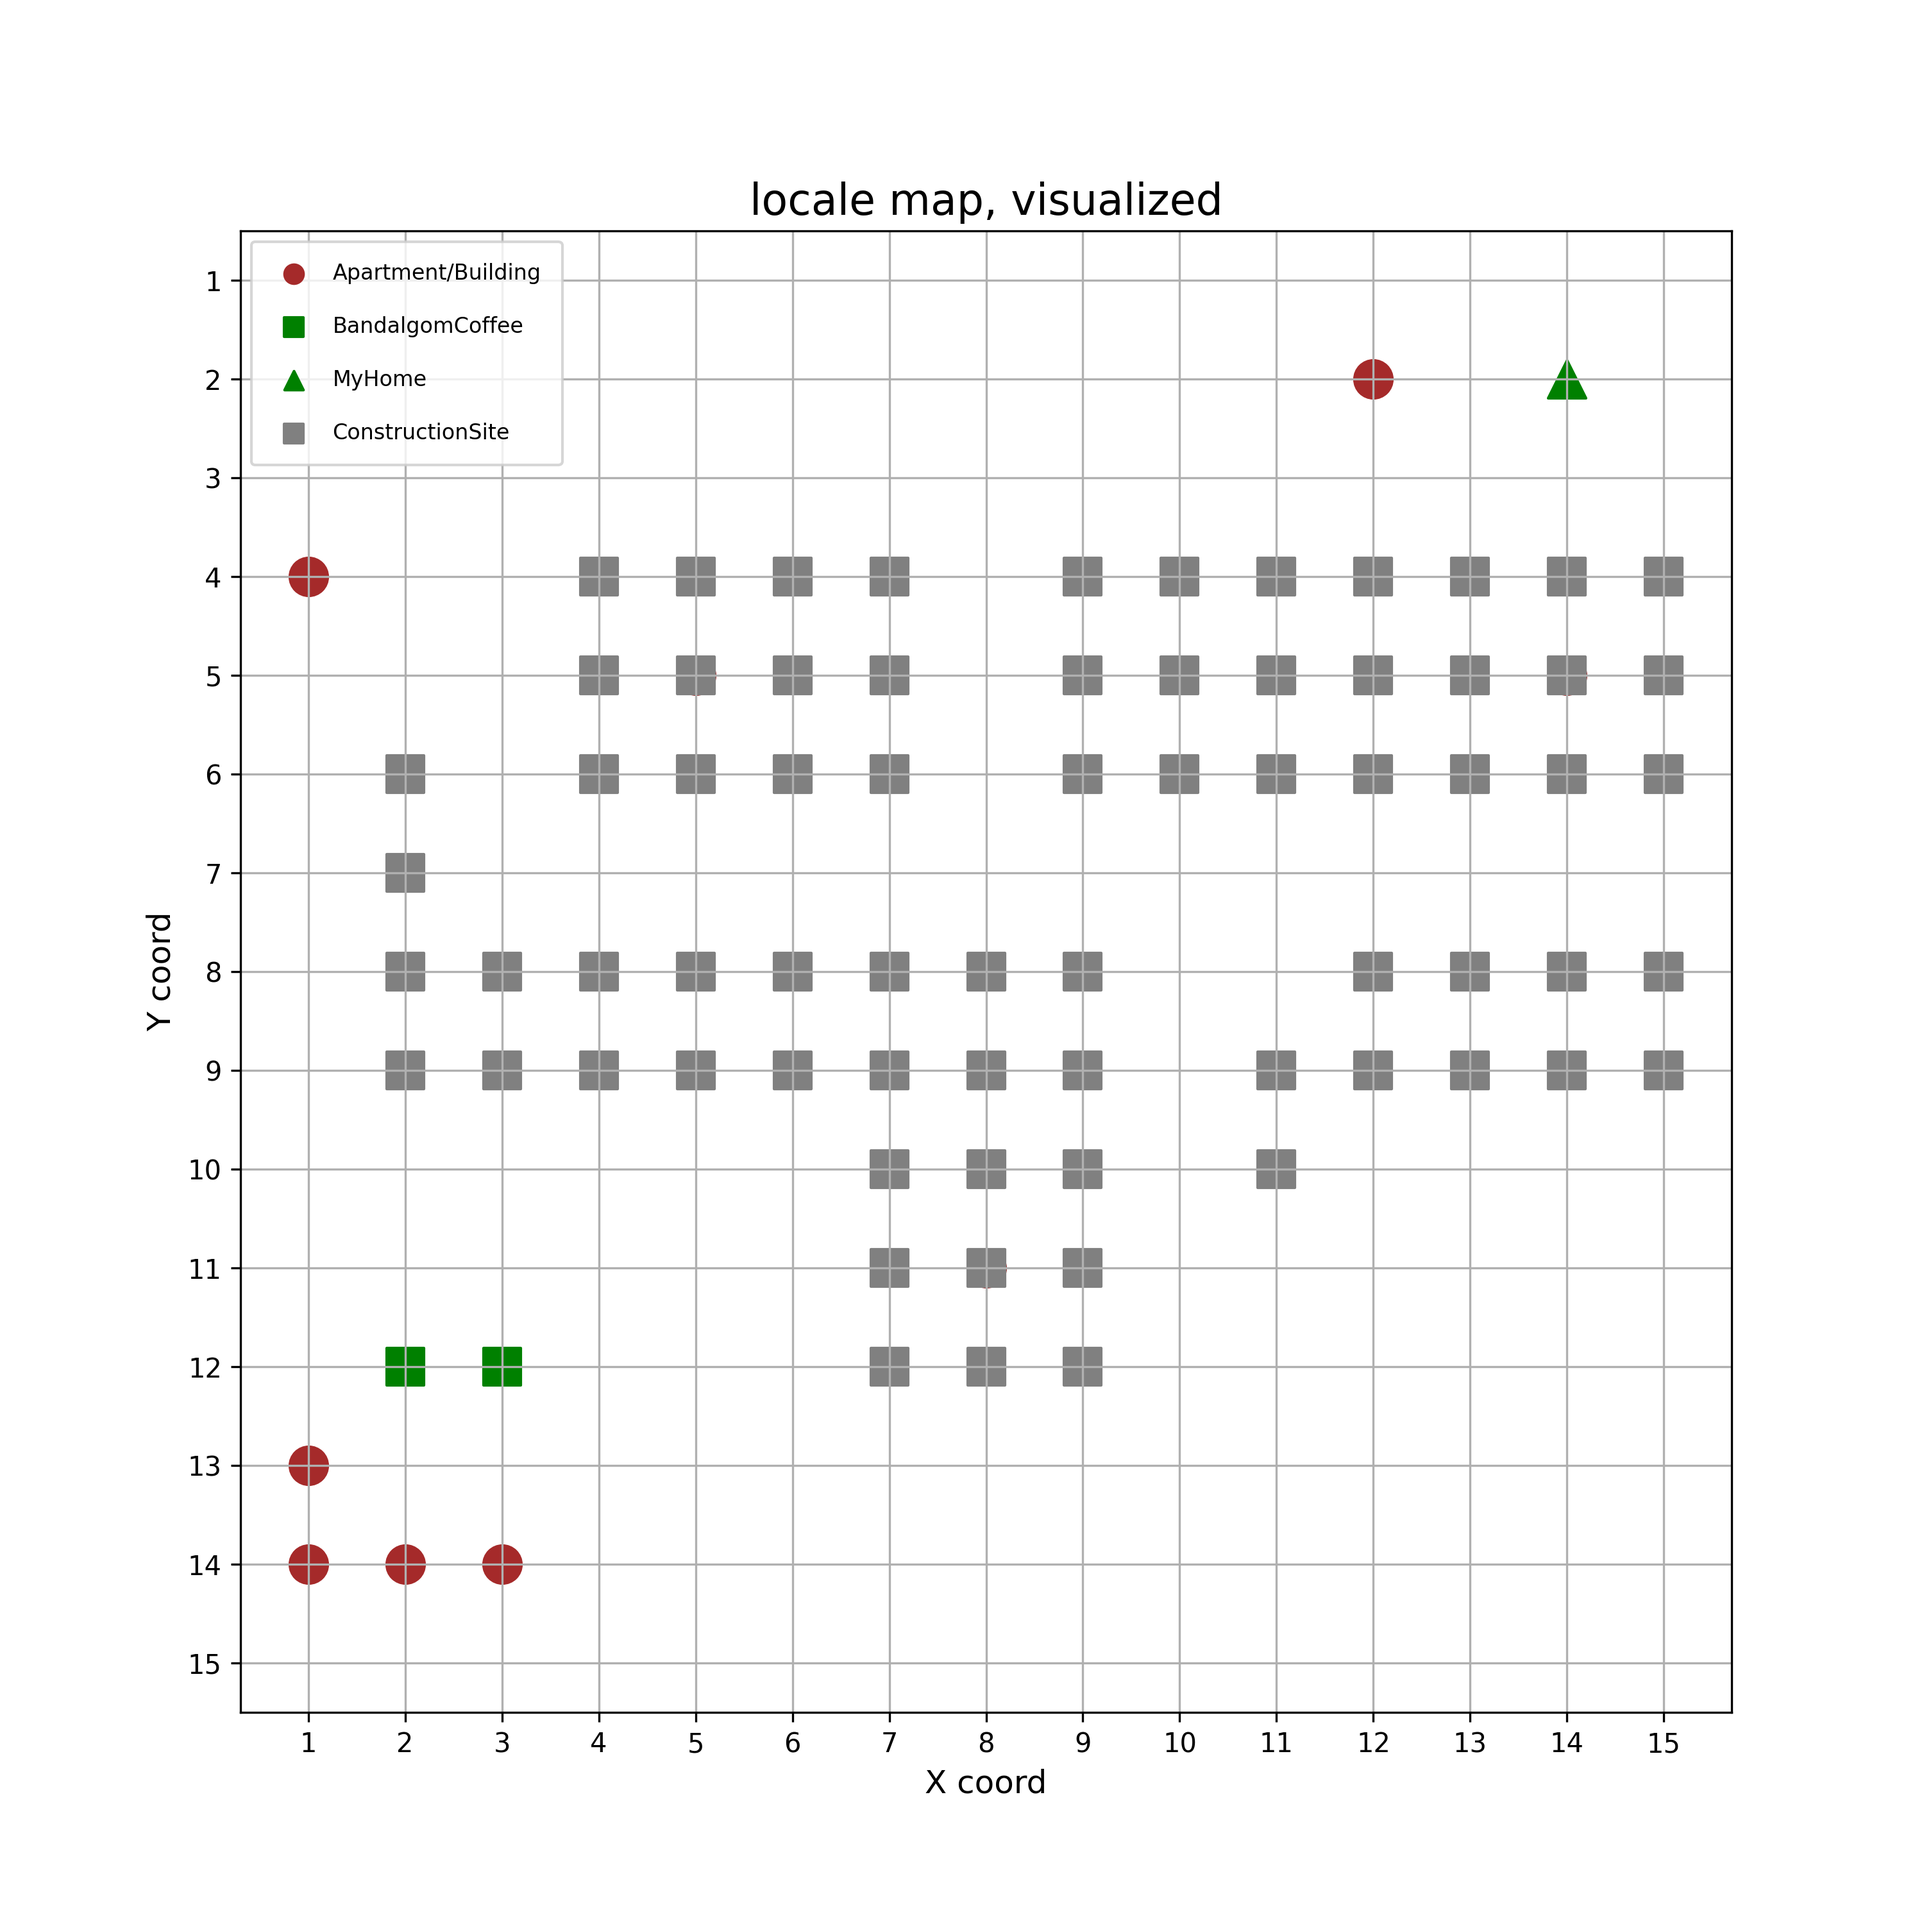
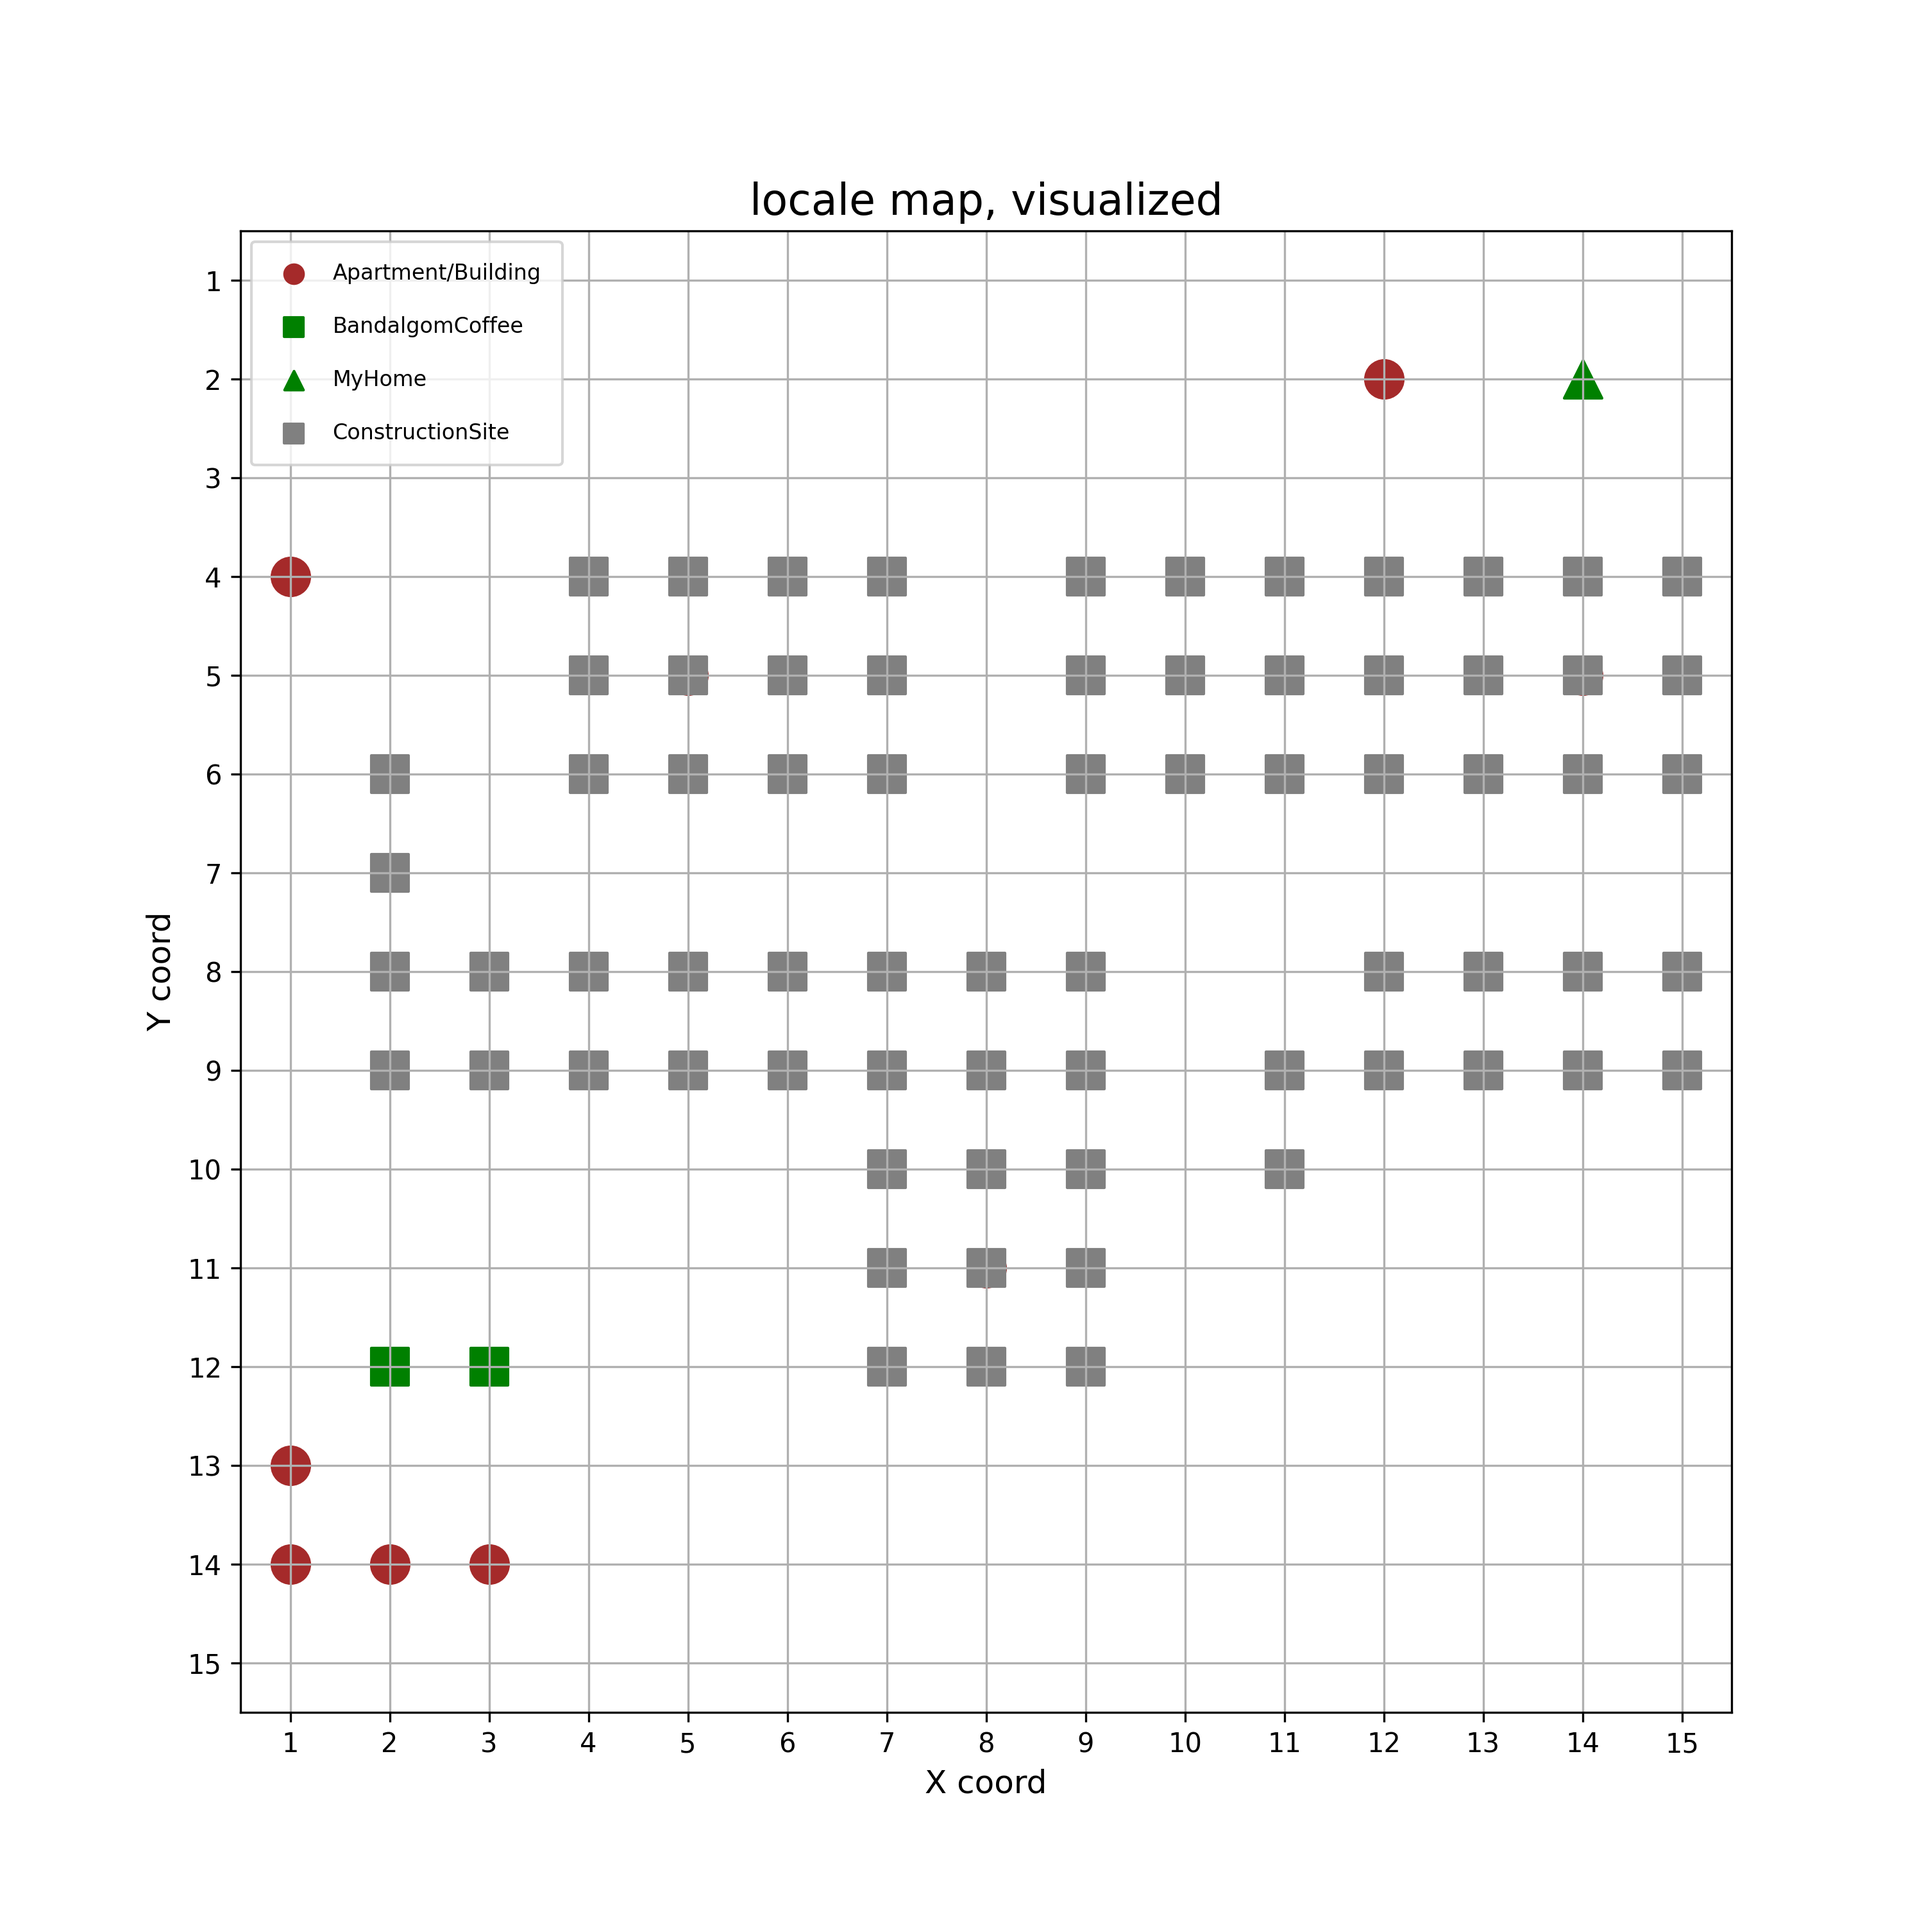
.

diff --git a/map_direct_save.py b/map_direct_save.py
@@ -1,0 +1,96 @@
+from mas_map import merge_data
+from map_draw import draw_map
+import matplotlib.pyplot
+import pandas
+from collections import deque
+import csv
+
+
+def bfs(df: pandas.DataFrame, start, goal) -> list:
+    max_x = df['x'].max()
+    max_y = df['y'].max()
+
+    grid = [[1 for _ in range(max_x + 1)] for _ in range(max_y + 1)]
+    for _, row in df.iterrows():
+        if row['ConstructionSite'] == 1:
+            grid[row['y']][row['x']] = 0  # 통과 불가
+
+    visited = [[False for _ in range(max_x + 1)] for _ in range(max_y + 1)]
+    parent = {}
+
+    queue = deque()
+    queue.append(start)
+    visited[start[1]][start[0]] = True
+
+    directions = [(-1,0),(1,0),(0,-1),(0,1)]  # 좌우상하
+
+    while queue:
+        x, y = queue.popleft()
+        if (x, y) == goal:
+            path = []
+            while (x, y) != start:
+                path.append((x, y))
+                x, y = parent[(x, y)]
+            path.append(start)
+            path.reverse()
+            return path
+
+        for dx, dy in directions:
+            nx, ny = x + dx, y + dy
+            if 1 <= nx <= max_x and 1 <= ny <= max_y:
+                if not visited[ny][nx] and grid[ny][nx] == 1:
+                    visited[ny][nx] = True
+                    parent[(nx, ny)] = (x, y)
+                    queue.append((nx, ny))
+
+    return None  # 경로 없음
+
+
+
+def save_path_to_csv(path):
+    try:
+        with open('home_to_cafe.csv', 'w', newline='') as f:
+            writer = csv.writer(f)
+            writer.writerow(['x', 'y'])
+            for x, y in path:
+                writer.writerow([x, y])
+    except Exception as e:
+        raise e
+
+
+def visualize():
+    df_merge = merge_data()
+    starts = df_merge[df_merge['category'] == 'MyHome']
+    goals = df_merge[df_merge['category'] == 'BandalgomCoffee']
+
+    paths = []
+    for _, start_row in starts.iterrows():
+        start = (start_row['x'], start_row['y'])
+
+        for _, goal_row in goals.iterrows():
+            goal = (goal_row['x'], goal_row['y'])
+            path = bfs(df_merge, start, goal)
+            if path:
+                paths.append(path)
+
+    if paths:
+        shortest_path = min(paths, key=len)
+        if shortest_path:
+            save_path_to_csv(shortest_path)
+            fig, ax = draw_map(df_merge, shortest_path)
+            fig.savefig('map_final.png', dpi = 300)
+
+    matplotlib.pyplot.show()
+
+    print('')
+
+
+def main():
+    try:
+        visualize()
+    except Exception as e:
+        print(f'Error: {str(e)}')
+
+
+if __name__ == '__main__':
+    main()

diff --git a/map_draw.py b/map_draw.py
@@ -1,17 +1,19 @@
 from matplotlib.axes import Axes
 from matplotlib.figure import Figure
-# import matplotlib.pyplot as plt
 import matplotlib.pyplot
+import pandas
 from mas_map import merge_data
+from typing import Tuple
 
 
-def draw_map(df_merge) -> tuple[Figure, Axes]:
+def draw_map(df_merge: pandas.DataFrame, path: list[Tuple[int, int]] = None) -> tuple[Figure, Axes]:
     fig, ax = matplotlib.pyplot.subplots(figsize=(10, 10))
     # 그리드 라인
     ax.set_xticks(range(1, df_merge['x'].max() + 1))
     ax.set_yticks(range(1, df_merge['y'].max() + 1))
 
     ax.grid(True)
+    ax.set_xlim(.5, df_merge['x'].max() + .5)
     ax.set_ylim(df_merge['y'].max() + .5, .5)
 
     # 구조물 종류별 표시
@@ -36,6 +38,11 @@ def draw_map(df_merge) -> tuple[Figure, Axes]:
     ax.set_xlabel('X coord', fontsize = 12)
     ax.set_ylabel('Y coord', fontsize = 12)
 
+    if path is not None:
+        path_x = [p[0] for p in path]
+        path_y = [p[1] for p in path]
+        ax.plot(path_x, path_y, color='red', linewidth=3, label='Path')
+
     # 범례
     ax.legend(fontsize = 8, markerscale = .5, borderpad = 1, labelspacing = 1.5)
 
@@ -52,7 +59,7 @@ def visualize() -> None:
         print(f'Error: {str(e)}')
 
 
-def main():
+def main() -> None:
     try:
         visualize()
     except Exception as e:

diff --git a/mas_map.py b/mas_map.py
@@ -1,9 +1,9 @@
-import pandas as pd
+import pandas
 
 
-def read_file_to_dataframe(path: str, skipinitialspace: bool = True) -> pd.DataFrame:
+def read_file_to_dataframe(path: str, skipinitialspace: bool = True) -> pandas.DataFrame:
     try:
-        data_frame = pd.read_csv(path, skipinitialspace=skipinitialspace)
+        data_frame = pandas.read_csv(path, skipinitialspace=skipinitialspace)
         data_frame.columns = data_frame.columns.str.strip()
     except:
         raise ValueError(f'Error: while read_csv at {path}')
@@ -11,7 +11,7 @@ def read_file_to_dataframe(path: str, skipinitialspace: bool = True) -> pd.DataF
         return data_frame
 
 
-def merge_data() -> pd.DataFrame:
+def merge_data() -> pandas.DataFrame:
     try:
         df_category = read_file_to_dataframe('data/csv/area_category.csv')
         df_struct = read_file_to_dataframe('data/csv/area_struct.csv')
